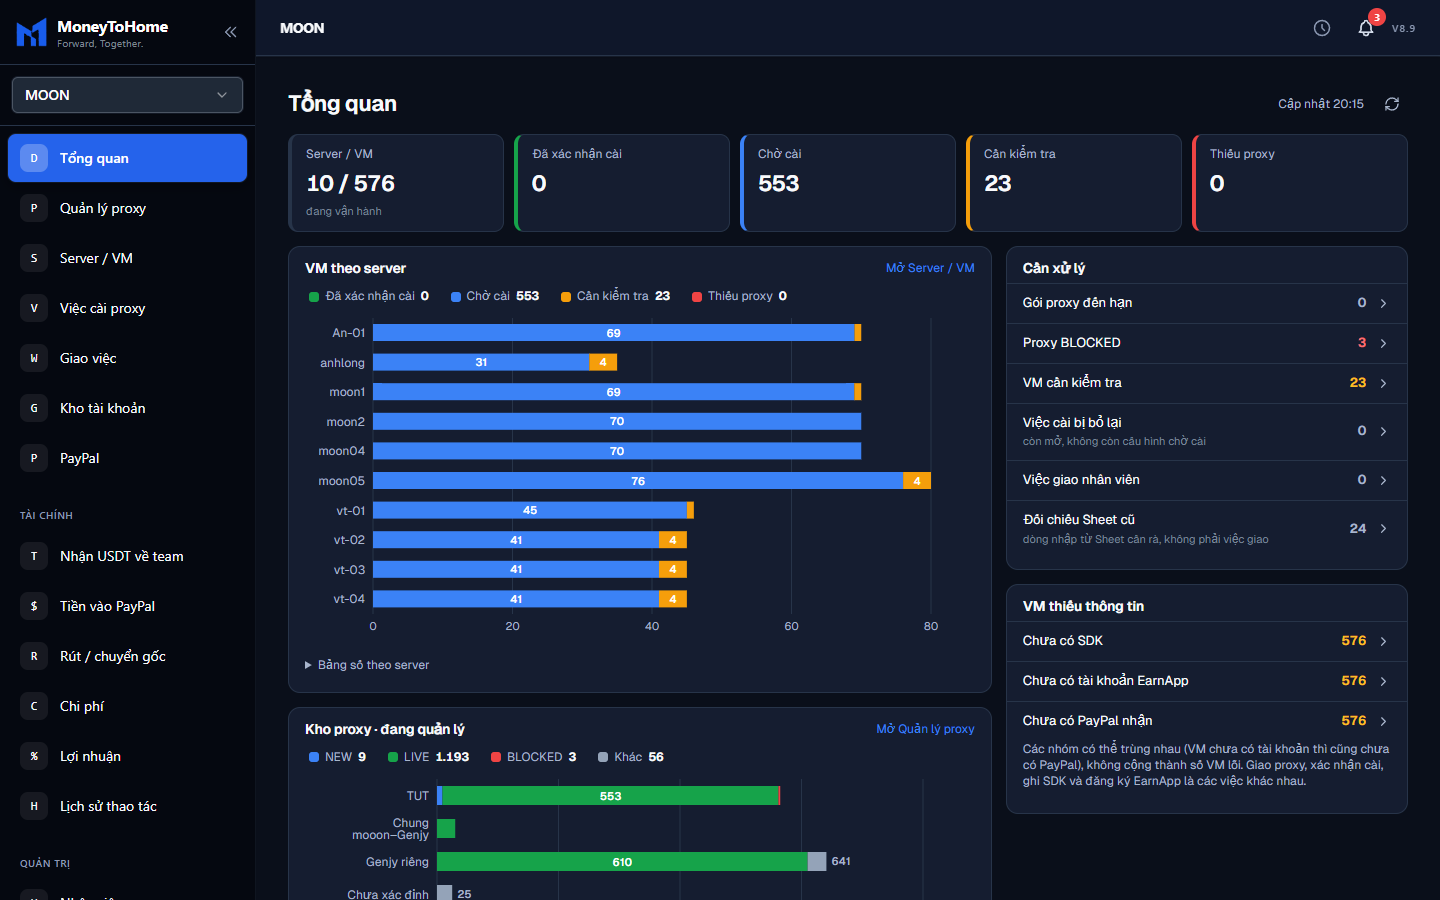
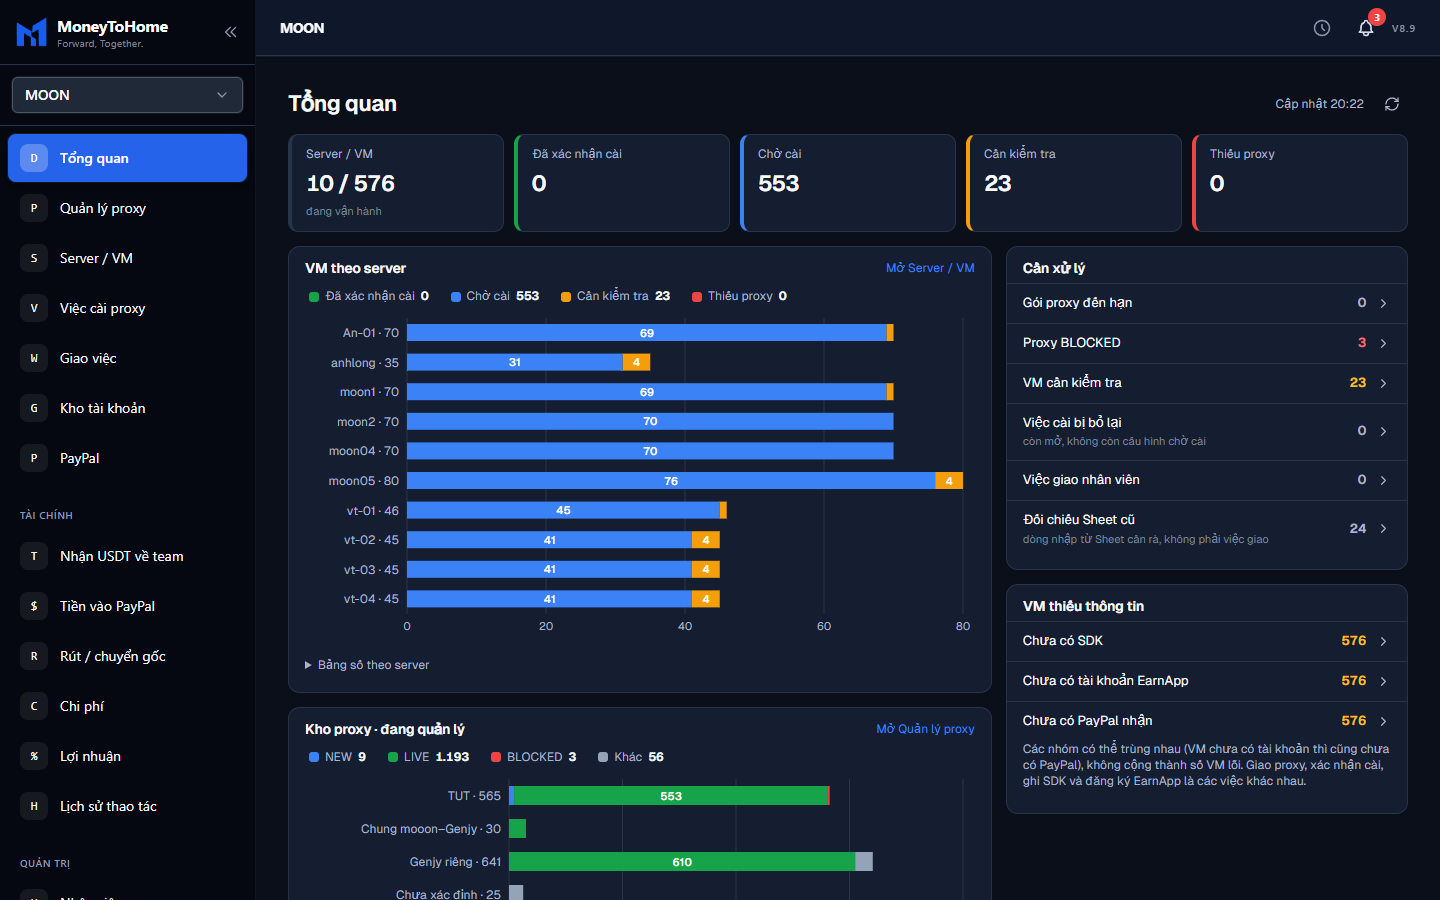
docs(dashboard): host read-only check and release ids

diff --git a/docs/superpowers/evidence/2026-10-17-dashboard-navigation/checklist.md b/docs/superpowers/evidence/2026-10-17-dashboard-navigation/checklist.md
@@ -50,3 +50,8 @@ Kiểm tra trên dữ liệu thử cục bộ: PROXY_TRIAL, DASH_EMPTY và các 
 - Chưa kiểm VIEWER trên trình duyệt; quyền đóng việc của VIEWER chỉ có test tự động.
 - Chưa kiểm trang LegacyPage của dự án loại cũ trên trình duyệt; chỉ build.
 - Chưa kiểm theme sáng và golden.
+
+## Phát hành
+
+- Commit `7a8e920` + `8aa9bcf`; backup host `b35fc71a` (trước lần 1) và `7ed395df` (trước lần 2); deploy `7895cb62` và `9e949504` SUCCESS; không migration.
+- Host chỉ đọc: 10 server / 576 VM. Tổng quan mooon: Chờ cài 553 = Server/VM 553, Cần kiểm tra 23 = 23, TUT·LIVE 553 = Quản lý proxy 553. Không ghi dữ liệu (chỉ xác thực PIN và heartbeat phiên).
